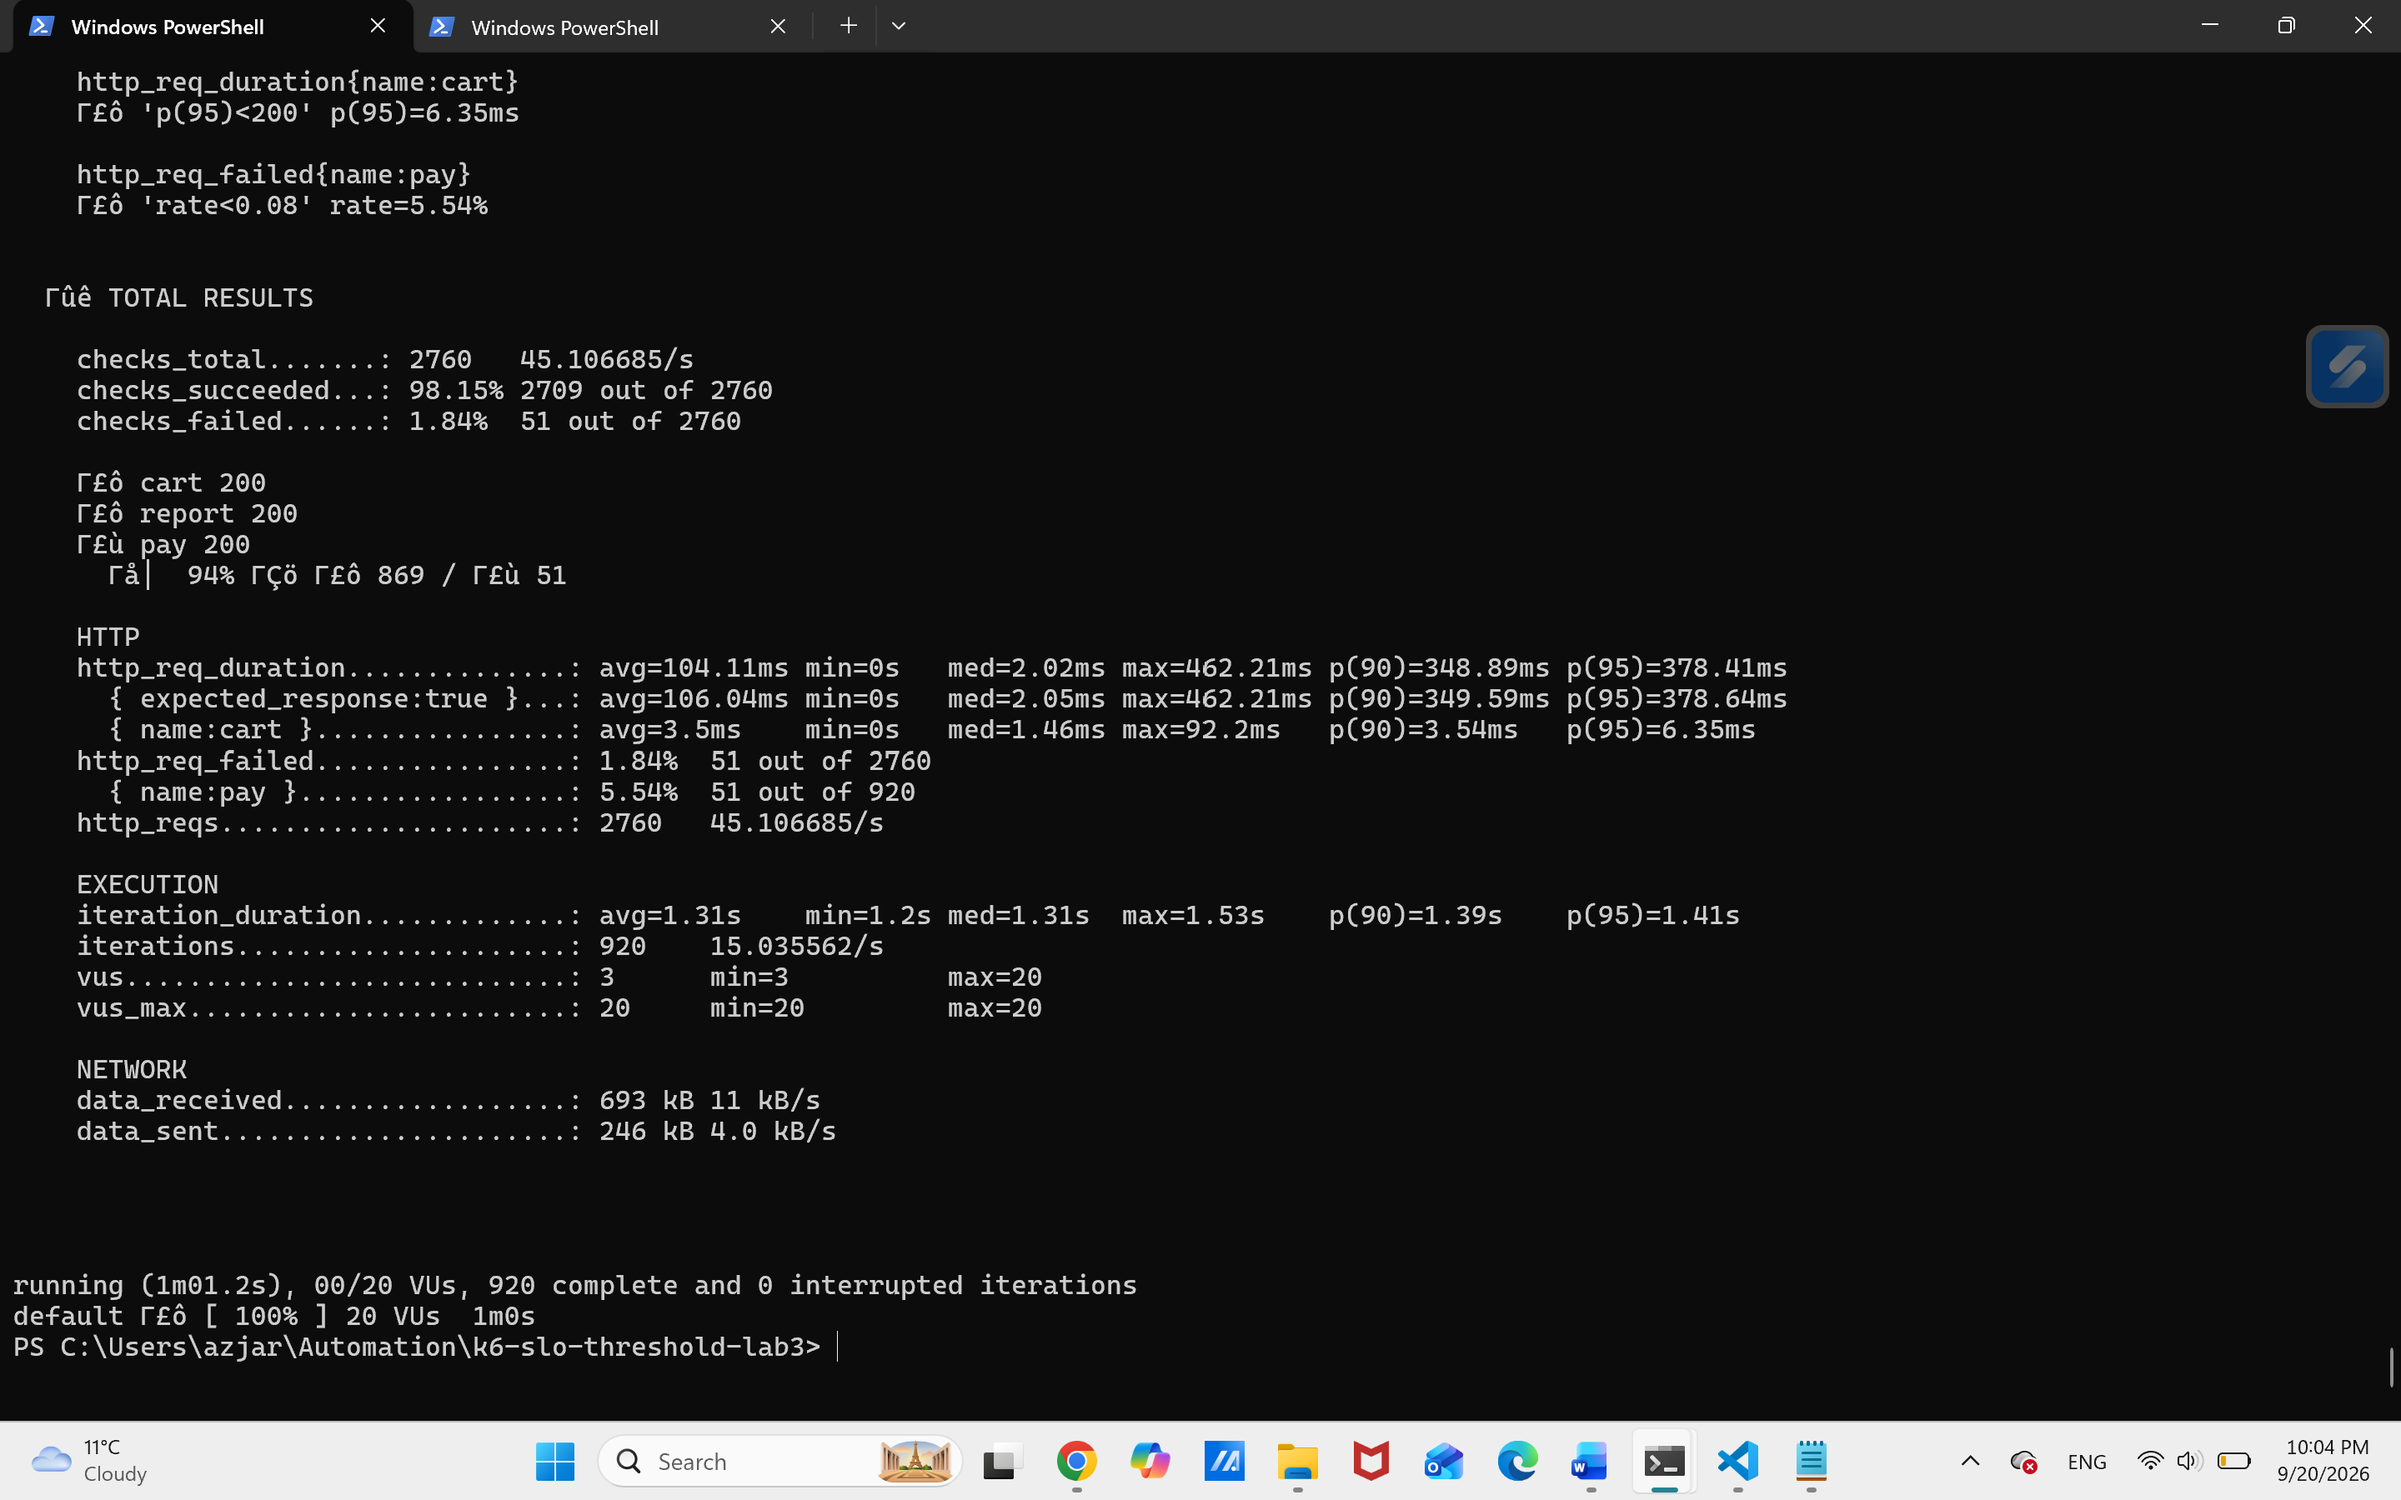
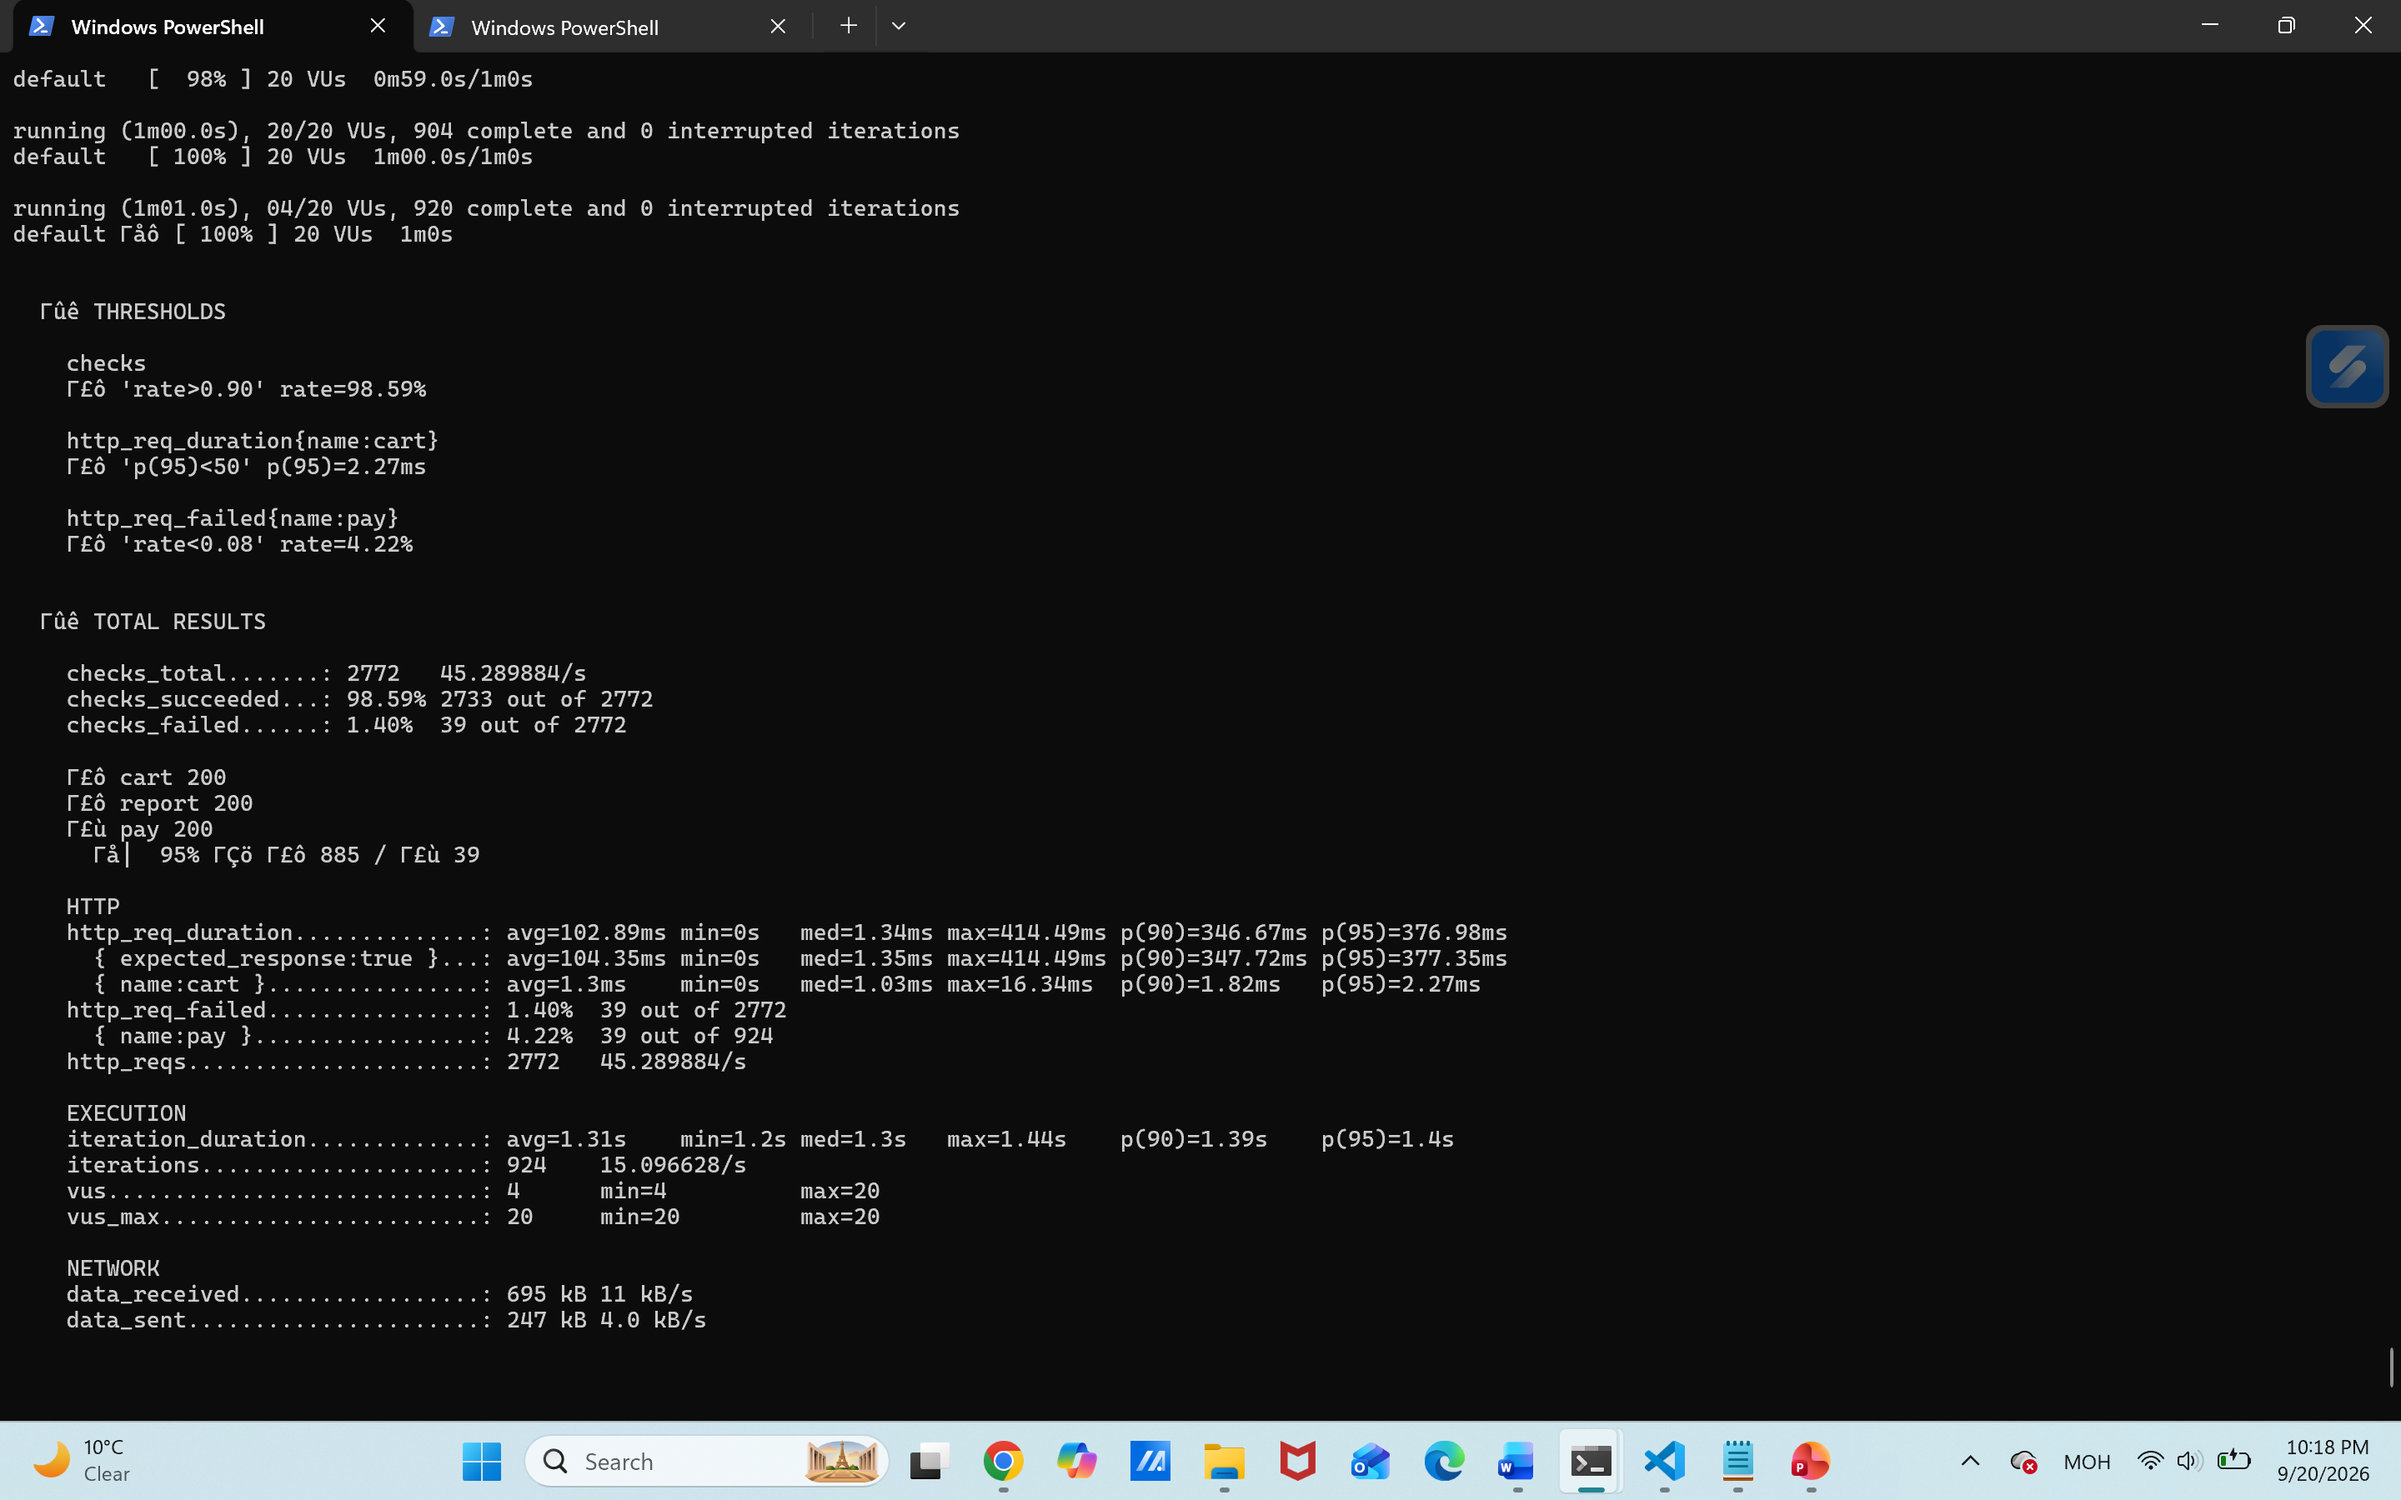
Босго утгыг шинэчлэн тогтоож туршив

diff --git a/slo-test.js b/slo-test.js
@@ -4,7 +4,7 @@ import { check, sleep } from 'k6';
 export const options = {
   vus: 20, duration: '1m',
   thresholds: {
-    'http_req_duration{name:cart}': ['p(95)<200'],   // Performance SLO
+    'http_req_duration{name:cart}': ['p(95)<50'],   // Performance SLO
     'http_req_failed{name:pay}':    ['rate<0.08'],   // Reliability SLO
     'checks':                       ['rate>0.90'],   // Availability SLO
   },

diff --git a/README.md b/README.md
@@ -18,7 +18,18 @@ k6.exe v2.2.0 (commit/00a9a1b7f5, go1.26.5, windows/amd64)
 
 | # | Сценарио | Тойм | Системийн төлөв | Орчны төлөв | Гадаад өдөөлт | Шаардлагатай хариу | Хэмжүүр |
 |---|---|---|---|---|---|---|---|
-| 1 | **Performance** | Хэвийн ачаалалтай үед `/cart/add` endpoint-ийн хариу үйлдэх хурдыг шалгах | Хэвийн ачаалалтай (20 VU, тогтмол хүсэлт) | Орчин хэвийн, локал сүлжээ | Хэрэглэгч сагсанд бараа нэмэх POST хүсэлт илгээнэ | Хуудас амжилттай хариу өгнө | `p95 < 200ms`|
+| 1 | **Performance** | Хэвийн ачаалалтай үед `/cart/add` endpoint-ийн хариу үйлдэх хурдыг шалгах | Хэвийн ачаалалтай (20 VU, тогтмол хүсэлт) | Орчин хэвийн, локал сүлжээ | Хэрэглэгч сагсанд бараа нэмэх POST хүсэлт илгээнэ | Хуудас амжилттай хариу өгнө | `p95 < 50ms`|
 | 2 | **Reliability** | `/pay` endpoint-ийн эвдрэлийн давтамжийг шалгах | Хэвийн ачаалалтай (20 VU) | Орчин хэвийн, серверт 5% алдаа суулгасан | Хэрэглэгч төлбөр төлөх POST хүсэлт илгээнэ | Төлбөрийн хариу буцах эсвэл 500 алдаа буцаана | `error rate < 8%`|
 | 3 | **Availability** | Сервер унаж дахин асахад системийн бэлэн байдлыг шалгах | Эвдрэлийн өмнө болон дараа хэвийн ачаалалтай (10 VU) | Сервер 10 секунд зогсож дахин асна | Серверт Ctrl+C өгч унагана| Сервер буцаж асаж хэвийн үргэлжилнэ | `Success rate ≥ 90%`|
 
+## 2. Сценарио бүрээс SLO гаргах
+
+| Сценарио | SLI (юуг хэмжих) | Босго | Цонх / Нөхцөл |
+|---|---|---|---|
+| Performance | `/cart/add` latency | p95 < 50 мс | 20 VU тогтмол ачаалалд, 1 мин |
+| Reliability | `/pay` error rate | < 8% (0.08) | 20 VU, 1 мин |
+| Availability | Бүх хүсэлтийн амжилтын хувь (`checks`) | ≥ 90% (0.90) | 2 мин, 10с зогсолт орсон |
+
+1. **Performance (`/cart/add`):** Локал машин дээр 1-5 мс хариулдаг ч 20 VU ачаалалтай үед сүлжээний болон процессорын саатал гарахаас сэргийлж p95 < 50ms босго тогтоов.
+2. **Reliability (`/pay`):** Серверийн кодод `Math.random() < 0.05` буюу ~5%-ийн алдаа суулгасан тул санамсаргүй хэлбэлзлийг тооцон 8%-иас бага байх босго сонгов.
+3. **Availability & Error Budget:** 2 минутын (120 секунд) цонход 90% availability гэдэг нь **12 секундээр тооцсон Error Budget** өгч байна. Серверийг 10 секунд зогсооход энэ цагийн budget-д багтана.
